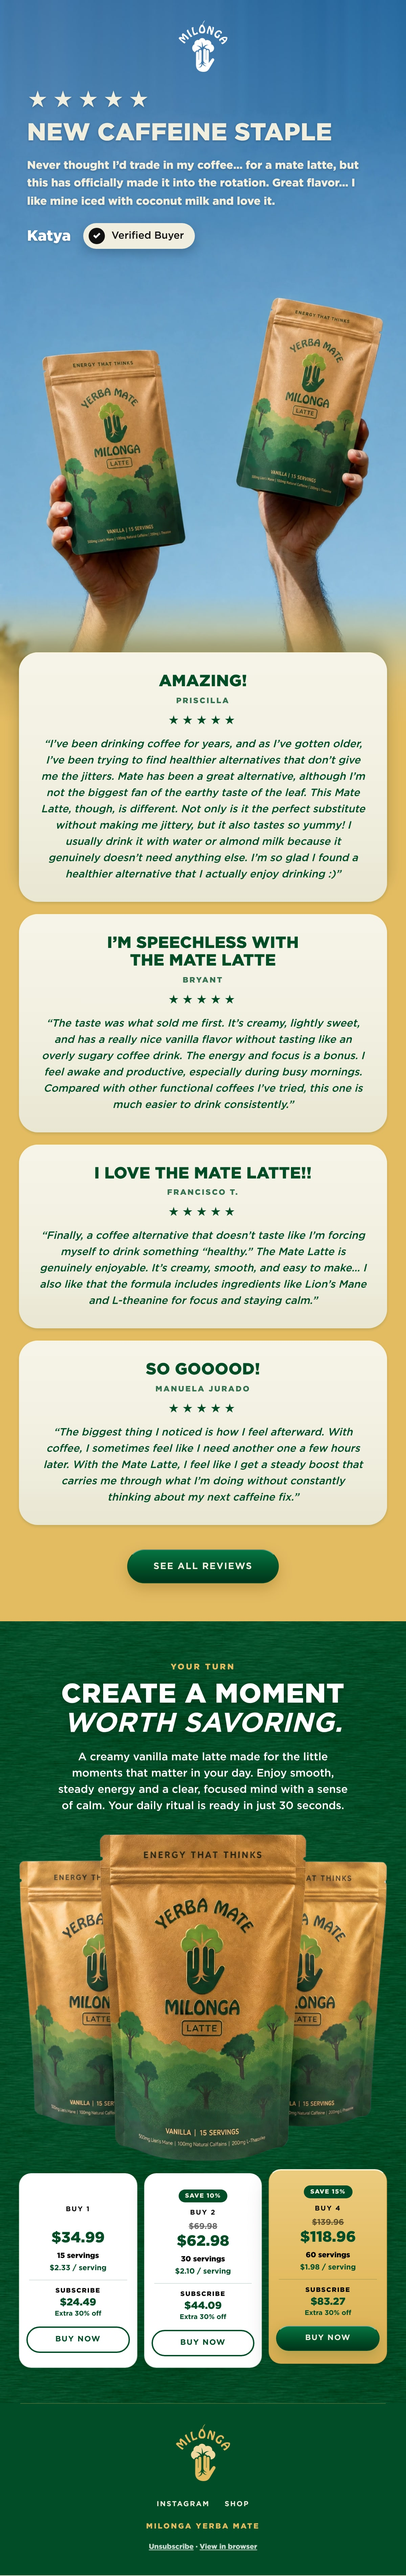
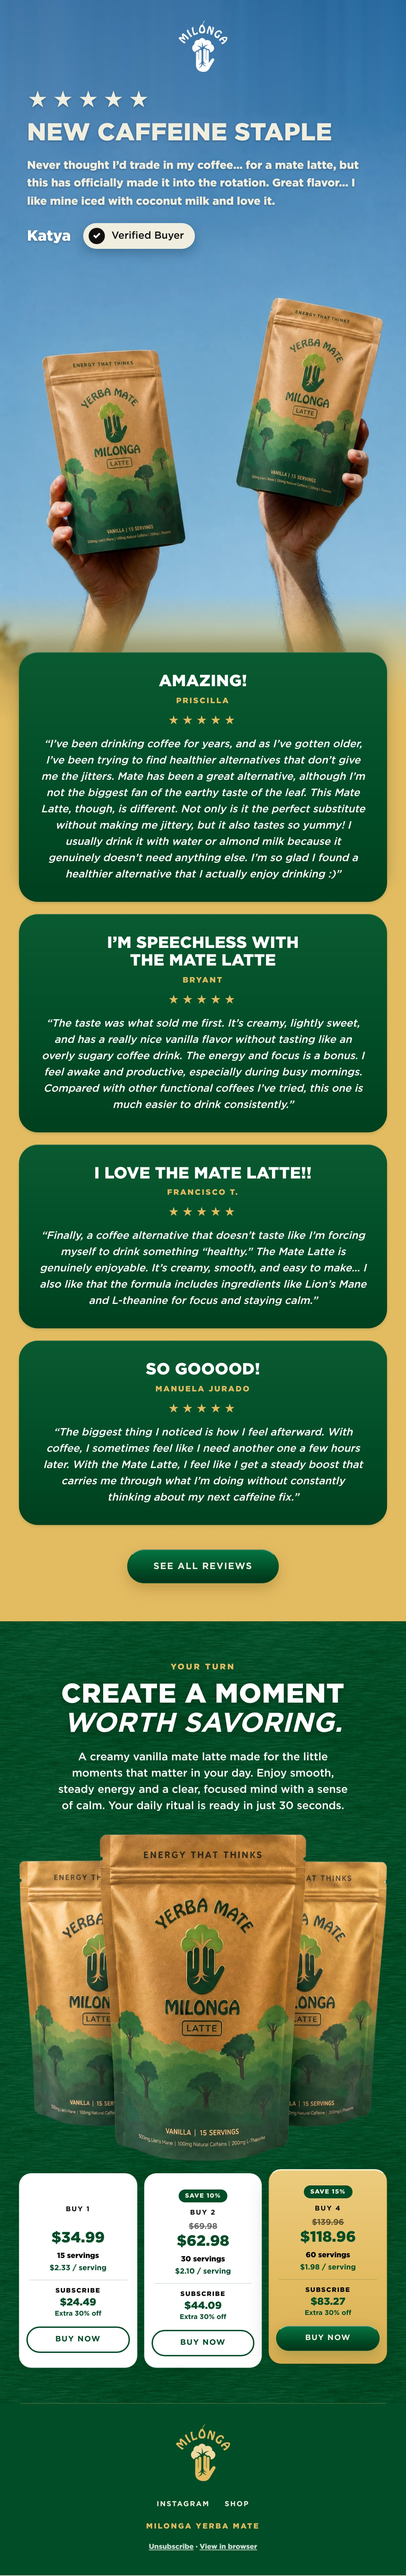
email: review cards go dark green on the gold band
The cards take the dark-green map — white headline and quote, gold name
and stars — in the design and the live block (make-reviews-html gains a
per-campaign cardInk).

Claude-Session: https://claude.ai/code/session_01NhEtXPnfeCJfN73SqBkUZ5

Changed region(s): [[0.0308, 0.2495, 0.9558, 0.5927]]

diff --git a/email-ds/exports/reviews-showcase-reviews.html b/email-ds/exports/reviews-showcase-reviews.html
@@ -45,31 +45,31 @@
           <td>
             <table role="presentation" width="100%" cellpadding="0" cellspacing="0" border="0">
               <tr>
-                <td colspan="3" valign="top" align="center" bgcolor="#F0EFDF" style="background-color:#F0EFDF;border-radius:28px;padding:30px 28px 28px 28px;text-align:center;">
-                  <div style="font-size:24px;line-height:1.1;font-weight:900;letter-spacing:0.01em;text-transform:uppercase;color:#004D27;">I&rsquo;m speechless with the mate&nbsp;latte</div>
-                  <div style="padding-top:8px;font-size:11.5px;line-height:1.2;font-weight:900;letter-spacing:0.16em;text-transform:uppercase;color:#004D27;">Bryant</div>
-                  <div style="padding-top:12px;font-size:16px;line-height:1;letter-spacing:4px;color:#004D27;">&#9733;&#9733;&#9733;&#9733;&#9733;</div>
-                  <div style="padding-top:14px;font-size:15.5px;line-height:1.55;font-style:italic;font-weight:500;color:#12331F;">&ldquo;The taste was what sold me first. It&rsquo;s creamy, lightly sweet, and has a really nice vanilla flavor without tasting like an overly sugary coffee drink. The energy and focus is a bonus. I feel awake and productive, especially during busy mornings. Compared with other functional coffees I&rsquo;ve tried, this one is much easier to drink consistently.&rdquo;</div>
+                <td colspan="3" valign="top" align="center" bgcolor="#004D27" style="background-color:#004D27;border-radius:28px;padding:30px 28px 28px 28px;text-align:center;">
+                  <div style="font-size:24px;line-height:1.1;font-weight:900;letter-spacing:0.01em;text-transform:uppercase;color:#FFFFFF;">I&rsquo;m speechless with the mate&nbsp;latte</div>
+                  <div style="padding-top:8px;font-size:11.5px;line-height:1.2;font-weight:900;letter-spacing:0.16em;text-transform:uppercase;color:#E3BC62;">Bryant</div>
+                  <div style="padding-top:12px;font-size:16px;line-height:1;letter-spacing:4px;color:#E3BC62;">&#9733;&#9733;&#9733;&#9733;&#9733;</div>
+                  <div style="padding-top:14px;font-size:15.5px;line-height:1.55;font-style:italic;font-weight:500;color:#FFFFFF;">&ldquo;The taste was what sold me first. It&rsquo;s creamy, lightly sweet, and has a really nice vanilla flavor without tasting like an overly sugary coffee drink. The energy and focus is a bonus. I feel awake and productive, especially during busy mornings. Compared with other functional coffees I&rsquo;ve tried, this one is much easier to drink consistently.&rdquo;</div>
                 </td>
               </tr>
 
               <tr><td colspan="3" class="mg-rowgap" style="height:18px;line-height:18px;font-size:0;">&nbsp;</td></tr>
               <tr>
-                <td colspan="3" valign="top" align="center" bgcolor="#F0EFDF" style="background-color:#F0EFDF;border-radius:28px;padding:30px 28px 28px 28px;text-align:center;">
-                  <div style="font-size:24px;line-height:1.1;font-weight:900;letter-spacing:0.01em;text-transform:uppercase;color:#004D27;">I love the mate&nbsp;latte!!</div>
-                  <div style="padding-top:8px;font-size:11.5px;line-height:1.2;font-weight:900;letter-spacing:0.16em;text-transform:uppercase;color:#004D27;">Francisco T.</div>
-                  <div style="padding-top:12px;font-size:16px;line-height:1;letter-spacing:4px;color:#004D27;">&#9733;&#9733;&#9733;&#9733;&#9733;</div>
-                  <div style="padding-top:14px;font-size:15.5px;line-height:1.55;font-style:italic;font-weight:500;color:#12331F;">&ldquo;Finally, a coffee alternative that doesn&rsquo;t taste like I&rsquo;m forcing myself to drink something &ldquo;healthy.&rdquo; The Mate Latte is genuinely enjoyable. It&rsquo;s creamy, smooth, and easy to make&hellip; I also like that the formula includes ingredients like Lion&rsquo;s Mane and L-theanine for focus and staying calm.&rdquo;</div>
+                <td colspan="3" valign="top" align="center" bgcolor="#004D27" style="background-color:#004D27;border-radius:28px;padding:30px 28px 28px 28px;text-align:center;">
+                  <div style="font-size:24px;line-height:1.1;font-weight:900;letter-spacing:0.01em;text-transform:uppercase;color:#FFFFFF;">I love the mate&nbsp;latte!!</div>
+                  <div style="padding-top:8px;font-size:11.5px;line-height:1.2;font-weight:900;letter-spacing:0.16em;text-transform:uppercase;color:#E3BC62;">Francisco T.</div>
+                  <div style="padding-top:12px;font-size:16px;line-height:1;letter-spacing:4px;color:#E3BC62;">&#9733;&#9733;&#9733;&#9733;&#9733;</div>
+                  <div style="padding-top:14px;font-size:15.5px;line-height:1.55;font-style:italic;font-weight:500;color:#FFFFFF;">&ldquo;Finally, a coffee alternative that doesn&rsquo;t taste like I&rsquo;m forcing myself to drink something &ldquo;healthy.&rdquo; The Mate Latte is genuinely enjoyable. It&rsquo;s creamy, smooth, and easy to make&hellip; I also like that the formula includes ingredients like Lion&rsquo;s Mane and L-theanine for focus and staying calm.&rdquo;</div>
                 </td>
               </tr>
 
               <tr><td colspan="3" class="mg-rowgap" style="height:18px;line-height:18px;font-size:0;">&nbsp;</td></tr>
               <tr>
-                <td colspan="3" valign="top" align="center" bgcolor="#F0EFDF" style="background-color:#F0EFDF;border-radius:28px;padding:30px 28px 28px 28px;text-align:center;">
-                  <div style="font-size:24px;line-height:1.1;font-weight:900;letter-spacing:0.01em;text-transform:uppercase;color:#004D27;">So&nbsp;gooood!</div>
-                  <div style="padding-top:8px;font-size:11.5px;line-height:1.2;font-weight:900;letter-spacing:0.16em;text-transform:uppercase;color:#004D27;">Manuela Jurado</div>
-                  <div style="padding-top:12px;font-size:16px;line-height:1;letter-spacing:4px;color:#004D27;">&#9733;&#9733;&#9733;&#9733;&#9733;</div>
-                  <div style="padding-top:14px;font-size:15.5px;line-height:1.55;font-style:italic;font-weight:500;color:#12331F;">&ldquo;The biggest thing I noticed is how I feel afterward. With coffee, I sometimes feel like I need another one a few hours later. With the Mate Latte, I feel like I get a steady boost that carries me through what I&rsquo;m doing without constantly thinking about my next caffeine fix.&rdquo;</div>
+                <td colspan="3" valign="top" align="center" bgcolor="#004D27" style="background-color:#004D27;border-radius:28px;padding:30px 28px 28px 28px;text-align:center;">
+                  <div style="font-size:24px;line-height:1.1;font-weight:900;letter-spacing:0.01em;text-transform:uppercase;color:#FFFFFF;">So&nbsp;gooood!</div>
+                  <div style="padding-top:8px;font-size:11.5px;line-height:1.2;font-weight:900;letter-spacing:0.16em;text-transform:uppercase;color:#E3BC62;">Manuela Jurado</div>
+                  <div style="padding-top:12px;font-size:16px;line-height:1;letter-spacing:4px;color:#E3BC62;">&#9733;&#9733;&#9733;&#9733;&#9733;</div>
+                  <div style="padding-top:14px;font-size:15.5px;line-height:1.55;font-style:italic;font-weight:500;color:#FFFFFF;">&ldquo;The biggest thing I noticed is how I feel afterward. With coffee, I sometimes feel like I need another one a few hours later. With the Mate Latte, I feel like I get a steady boost that carries me through what I&rsquo;m doing without constantly thinking about my next caffeine fix.&rdquo;</div>
                 </td>
               </tr>
             </table>

diff --git a/email-ds/emails/reviews-showcase.jsx b/email-ds/emails/reviews-showcase.jsx
@@ -40,7 +40,10 @@ const CARD_RISE = 104;
 const S2 = {
   ground: '#E3BC62',
   fade: 'rgba(227,188,98,',
-  card: 'linear-gradient(180deg, #F6F4E8 0%, #F0EFDF 60%, #E9E6D2 100%)',
+  // Dark green cards (Bernat, 2026-10-09), so their type follows the
+  // dark-green map: white headline and quote, gold name and stars.
+  card: 'linear-gradient(180deg, #0A5A31 0%, #004D27 55%, #00401F 100%)',
+  title: '#FFFFFF', name: '#E3BC62', stars: '#E3BC62', quote: '#FFFFFF',
   btnBg: 'gold',
 };
 const FONT = 'Gotham, Montserrat, sans-serif';
@@ -143,18 +146,18 @@ function ReviewsShowcase({ shopHref = '#shop' }) {
           // units under the first card onto flat beige, so nothing may reach
           // that far — and the live cards beneath carry no shadow at all.
           boxShadow: i === 0
-            ? '0 -18px 22px rgba(0,26,13,0.22), 0 2px 4px rgba(0,53,27,0.14), inset 0 1px 0 rgba(255,246,214,0.75)'
-            : '0 2px 4px rgba(0,53,27,0.14), inset 0 1px 0 rgba(255,246,214,0.75)' } },
+            ? '0 -18px 22px rgba(0,26,13,0.22), 0 2px 4px rgba(0,53,27,0.14), inset 0 1px 0 rgba(255,255,255,0.14)'
+            : '0 2px 4px rgba(0,53,27,0.14), inset 0 1px 0 rgba(255,255,255,0.14)' } },
           // balance, so a long headline breaks into two even rows instead of
           // a full line and a one-word stub.
           h('div', { style: { fontFamily: FONT, fontWeight: 900, fontSize: 24, lineHeight: 1.1,
-            textTransform: 'uppercase', color: FOREST, letterSpacing: '0.01em', textWrap: 'balance' } },
+            textTransform: 'uppercase', color: S2.title, letterSpacing: '0.01em', textWrap: 'balance' } },
             r.title.replace(/\s+!/, '!')),
           h('div', { style: { fontFamily: FONT, fontWeight: 900, fontSize: 11.5, letterSpacing: '0.16em',
-            textTransform: 'uppercase', color: FOREST, opacity: 0.78, marginTop: 8 } }, r.name),
-          h('div', { style: { fontSize: 16, letterSpacing: '4px', color: FOREST, marginTop: 12 } }, '★★★★★'),
+            textTransform: 'uppercase', color: S2.name, marginTop: 8 } }, r.name),
+          h('div', { style: { fontSize: 16, letterSpacing: '4px', color: S2.stars, marginTop: 12 } }, '★★★★★'),
           h('div', { style: { fontFamily: FONT, fontStyle: 'italic', fontWeight: 500, fontSize: 15.5,
-            lineHeight: 1.55, color: FOREST, marginTop: 14 } }, r.quote),
+            lineHeight: 1.55, color: S2.quote, marginTop: 14 } }, r.quote),
         ))),
 
       h('div', { style: { marginTop: 36, textAlign: 'center' } },
